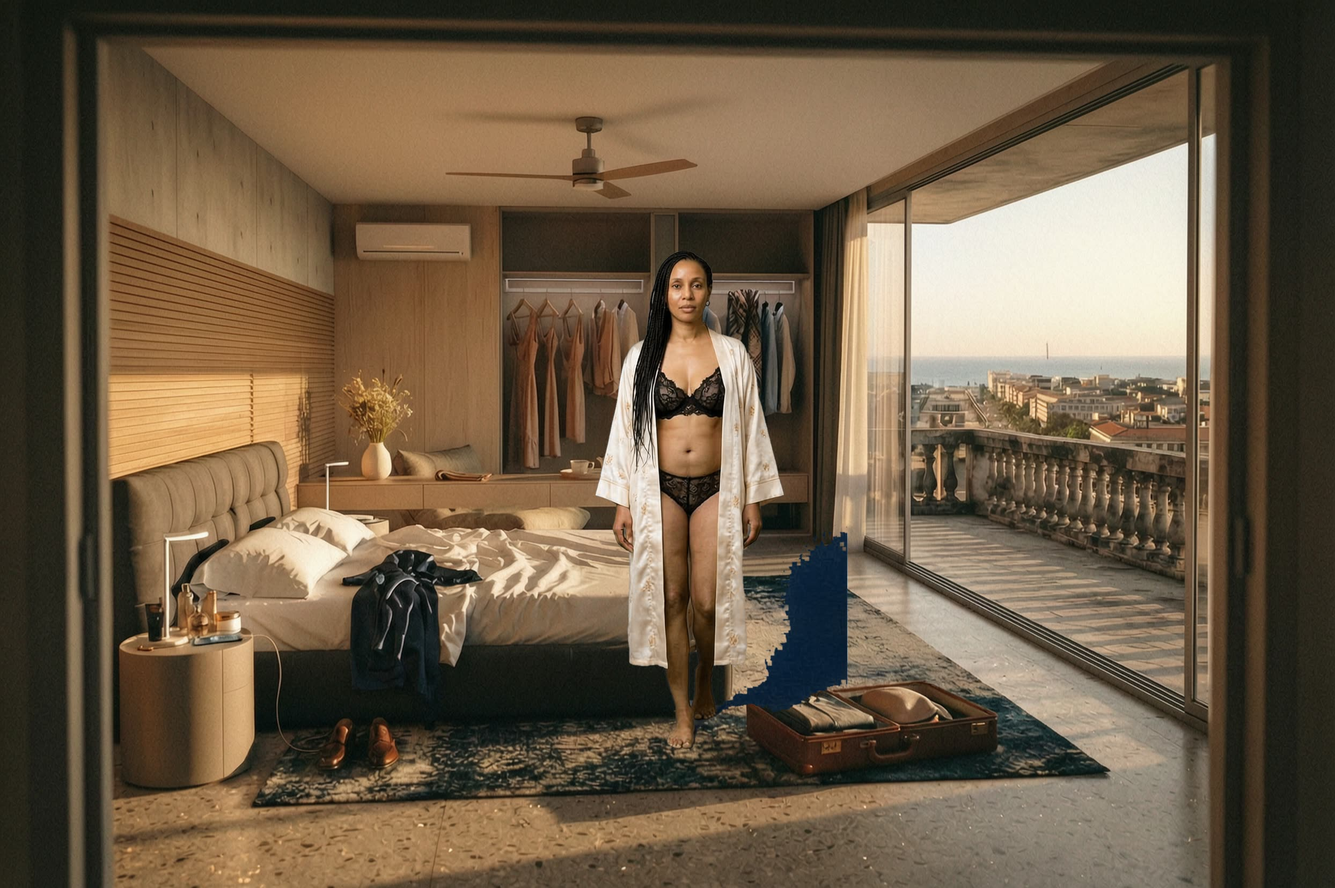
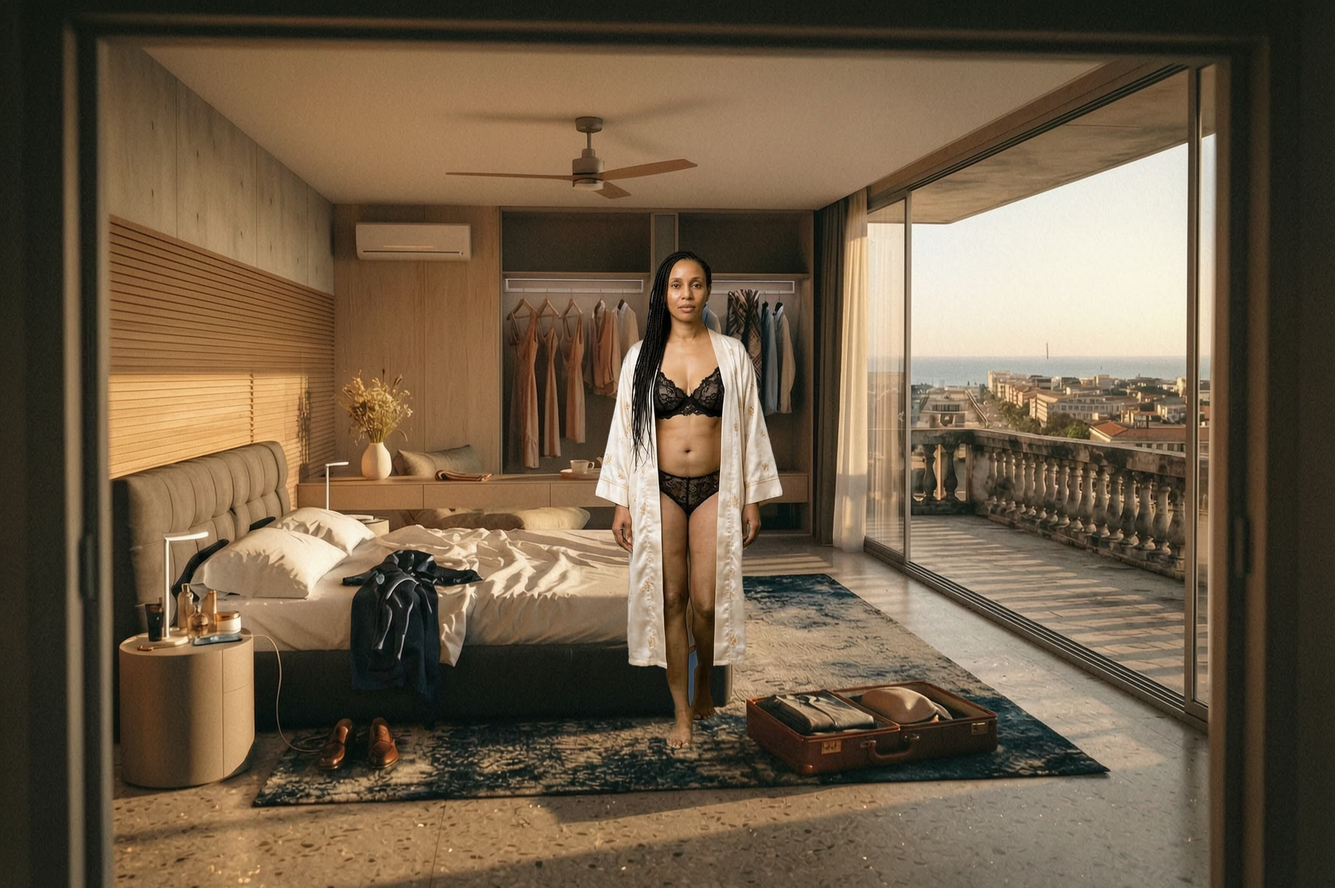
Le fond vert dans l ombre n est plus pris pour un vetement
Le colorkey mesure une distance a une seule couleur : sous la personne
le fond passe a l ombre et il ne le reconnait plus, le laisse opaque, et
le devert le retourne en bleu marine. Est desormais du fond tout ce dont
le vert domine franchement. La decoupe est ensuite recousue : les
morceaux detaches sont jetes, les trous qui ne touchent pas le bord
rebouches.

Changed region(s): [[0.4952, 0.5851, 0.6499, 0.8007], [0.4642, 0.3696, 0.588, 0.6159], [0.4952, 0.308, 0.5261, 0.3388]]

diff --git a/outils/incruste_chambre.py b/outils/incruste_chambre.py
@@ -62,17 +62,124 @@ def detoure(planche, panneau, i, couleur, sortie):
          # n'ont presque pas de chrominance, il les trouve donc aussi
          # proches du vert que le fond lui-même et les efface. C'est ce
          # qui rendait les gens transparents.
-         f'colorkey={couleur}:0.18:0.03,split[c][a];'
+         f'colorkey={couleur}:0.18:0.03,'
+         # Le fond n'est pas d'un vert unique : sous la personne il passe
+         # à l'ombre, et le `colorkey`, qui mesure une distance à une seule
+         # couleur, ne l'y reconnaît plus. Il le laissait opaque, et le
+         # dévert le retournait en bleu marine — la cheffe du protocole
+         # avait une flaque bleue à ses pieds. Est aussi du fond tout ce
+         # dont le vert domine franchement les deux autres canaux : une
+         # peau, un jean, un satin ivoire n'en sont jamais là.
+         "geq=r='r(X,Y)':g='g(X,Y)':b='b(X,Y)':"
+         "a='if(gt(g(X,Y),50)*gt(g(X,Y),1.25*r(X,Y))*gt(g(X,Y),1.25*b(X,Y)),"
+         "0,alpha(X,Y))',"
+         'split[c][a];'
          '[c]despill=type=green:mix=0.5:expand=0[cc];'
          # L'alpha est binarisé, puis fermé — une dilatation suivie d'une
          # érosion — pour boucher les trous que le vert a percés dans les
          # vêtements, avant d'être refeutré d'un pixel sur le bord.
          "[a]format=rgba,alphaextract,format=gray,lut=y='if(gt(val,128),255,0)',"
          'dilation,dilation,dilation,dilation,'
-         'erosion,erosion,erosion,erosion,boxblur=1:1[m];'
+         'erosion,erosion,erosion,erosion,'
+         # Puis une ouverture, qui fait l'inverse : elle rogne les
+         # filaments que le vert a laissés pendre au bord d'un vêtement —
+         # la militante gardait des fils de jean accrochés à sa manche —
+         # sans entamer un corps, bien plus large que trois pixels.
+         'erosion,erosion,erosion,'
+         'dilation,dilation,dilation,boxblur=1:1[m];'
          '[cc][m]alphamerge',
          '-frames:v', '1', '-update', '1', sortie],
         check=True)
+
+
+def _alpha(png, w, h):
+    raw = subprocess.run(
+        ['ffmpeg', '-v', 'error', '-i', png, '-vf', 'alphaextract',
+         '-f', 'rawvideo', '-pix_fmt', 'gray', '-'],
+        capture_output=True).stdout
+    if len(raw) < w * h:
+        sys.exit(f'{png} : alpha illisible')
+    return bytearray(raw[:w * h])
+
+
+def _composantes(op, w, h, cherchee):
+    """Les paquets de pixels qui se touchent, du plus gros au plus petit."""
+    vu = bytearray(w * h)
+    paquets = []
+    for depart in range(w * h):
+        if vu[depart] or op[depart] != cherchee:
+            continue
+        pile, paquet = [depart], []
+        vu[depart] = 1
+        while pile:
+            i = pile.pop()
+            paquet.append(i)
+            x, y = i % w, i // w
+            if x and not vu[i - 1] and op[i - 1] == cherchee:
+                vu[i - 1] = 1; pile.append(i - 1)
+            if x + 1 < w and not vu[i + 1] and op[i + 1] == cherchee:
+                vu[i + 1] = 1; pile.append(i + 1)
+            if y and not vu[i - w] and op[i - w] == cherchee:
+                vu[i - w] = 1; pile.append(i - w)
+            if y + 1 < h and not vu[i + w] and op[i + w] == cherchee:
+                vu[i + w] = 1; pile.append(i + w)
+        paquets.append(paquet)
+    paquets.sort(key=len, reverse=True)
+    return paquets
+
+
+def recoud(png):
+    """Rend à la découpe ce que le vert lui a pris.
+
+    Le `colorkey` compare des couleurs une à une, sans savoir ce qu'il
+    découpe : un jean éclairé passe à moins de deux dixièmes du vert du
+    fond, et il en perce des plaques entières — la militante avait la
+    penderie au travers de sa chemise, et un morceau de cette chemise
+    traînait tout seul sur le tapis. La fermeture morphologique ne rebouche
+    que les petits trous ; celui-là faisait deux cents pixels.
+
+    Deux règles suffisent, et elles ne regardent plus les couleurs :
+    une personne est d'un seul tenant — donc on jette les morceaux
+    détachés ; et une personne n'a pas de fenêtres — donc tout trou qui
+    ne communique pas avec le bord se rebouche.
+    """
+    w, h = dimensions(png)
+    a = _alpha(png, w, h)
+    op = bytearray(1 if v > 127 else 0 for v in a)
+
+    morceaux = _composantes(op, w, h, 1)
+    if not morceaux:
+        sys.exit(f'{png} : rien à détourer — le fond a tout mangé')
+    jetes = sum(len(m) for m in morceaux[1:])
+    for m in morceaux[1:]:
+        for i in m:
+            op[i] = 0
+
+    bouches = 0
+    for trou in _composantes(op, w, h, 0):
+        x = trou[0] % w
+        y = trou[0] // w
+        # Un paquet transparent qui touche le bord, c'est le fond.
+        if any(p % w in (0, w - 1) or p // w in (0, h - 1) for p in trou):
+            continue
+        bouches += len(trou)
+        for i in trou:
+            op[i] = 1
+
+    if not jetes and not bouches:
+        return 0, 0
+    brut = png + '.alpha'
+    open(brut, 'wb').write(bytes(255 if v else 0 for v in op))
+    recousu = png + '.recousu.png'
+    subprocess.run(
+        ['ffmpeg', '-v', 'error', '-y', '-i', png,
+         '-f', 'rawvideo', '-pix_fmt', 'gray', '-s', f'{w}x{h}', '-i', brut,
+         '-filter_complex', '[0]format=rgba[c];[1]format=gray,boxblur=1:1[m];'
+         '[c][m]alphamerge', '-frames:v', '1', '-update', '1', recousu],
+        check=True)
+    os.replace(recousu, png)
+    os.remove(brut)
+    return jetes, bouches
 
 
 def boite(png):
@@ -110,6 +217,10 @@ def main():
         # Le vert se relève en haut à gauche du panneau, loin de la personne.
         couleur = vert(planche, i * panneau[0] + 20, 20)
         detoure(planche, panneau, i, couleur, decoupe)
+        jetes, bouches = recoud(decoupe)
+        if jetes or bouches:
+            print(f'  k{i + 1}  recousu : {jetes} pixels détachés jetés, '
+                  f'{bouches} rebouchés')
         bx, by, bw, bh = boite(decoupe)
         if bh < ph * 0.5:
             sys.exit(f'{planche} pose {i + 1} : la découpe ne fait que {bh} '
